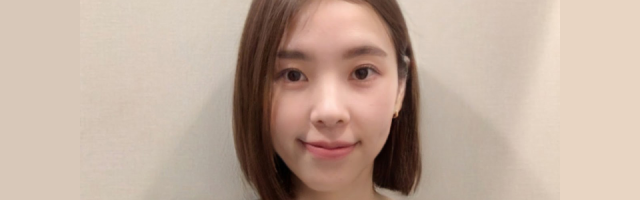
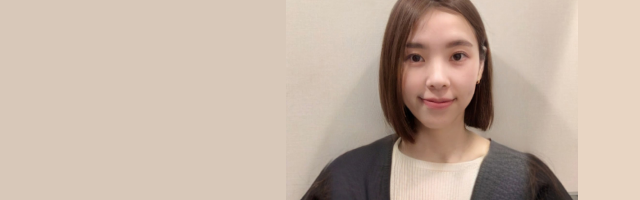
Revice design and beharvior in 'Interview' section
Revice design and beharvior in 'Interview' section

diff --git a/css/index.css b/css/index.css
@@ -789,7 +789,7 @@ body {
   margin: 0 auto;
 }
 #interview__container .presentation__headerText {
-  margin-bottom: 40px;
+  margin-bottom: 10px;
 }
 
 #interview__container .presentation__itemText {
@@ -797,42 +797,39 @@ body {
   display: block;
   float: left;
   margin-right: 8px;
+  margin-bottom: 1em;
 }
 
 #interview__container .presentation__items {
-  display: flex;
-  justify-content: space-between;
+  /* display: flex; */
+  /* justify-content: space-between; */
 }
 #interview__container .presentation__item {
-  /* width: 294px; */
-  /* width: calc(960px / 4 * 3); */
-  min-height: 640px;
   background-color: var(--color-white);
   border-radius: 16px;
   box-shadow: 0 0 4px rgba(0, 28, 84, 15%);
   margin: 0 10px;
+  min-height: 680px;
 }
 
 #interview__container .presentation__item dl {
-  padding: 20px 24px 24px;
+  padding: 20px 24px 8px;
 }
 
 #interview__container .presentation__itemDescription {
   clear: left;
-  display: flex;
-  column-gap: 5%;
-  padding-top: 16px;
 }
 #interview__container .interview__content {
-  width: 30%;
+  width: 100%;
 }
 #interview__container .interview__content h3 {
   font: var(--text-Text16_B);
-  margin-bottom: 0.25em;
+  margin-bottom: 0.1em;
 }
 #interview__container .interview__content p {
   font: var(--text-Text14_R);
-  line-height: 1.5;
+  line-height: 1.4;
+  margin-bottom: 1em;
 }
 
 #interview__container .presentation__itemImage {
@@ -1292,11 +1289,11 @@ For smartphone
   /* interview */
 
   #interview__wrapper {
-    margin-bottom: 2em;
+    margin-bottom: 0em;
   }
 
   #interview__container {
-    padding: 0 0 2rem;
+    padding: 0 0 3em;
   }
   #interview__container .presentation__headerText {
     margin-bottom: 1em;
@@ -1328,17 +1325,17 @@ For smartphone
     background-color: var(--color-white);
     border-radius: 16px;
     box-shadow: 0 0 4px rgba(0, 28, 84, 15%);
-    margin: 0 auto 3em;
+    margin: 0 auto;
     min-height: auto;
     overflow: hidden;
   }
 
   #interview__container .presentation__item dl {
-    padding: 0 1.5em 1.5em;
+    padding: 0 1.5em;
   }
 
   #interview__container .presentation__item:nth-child(odd) {
-    margin-top: 0;
+    /* margin-top: 0; */
   }
 
   #interview__container .presentation__itemImage {
@@ -1353,7 +1350,7 @@ For smartphone
 
   #interview__container .interview__content h3 {
     font: var(--text-Text16_B);
-    margin: 1em 0 0.2em;
+    margin: 0 0 0.2em;
   }
 
   #interview__container .link__type2 {

diff --git a/js/index.js b/js/index.js
@@ -1,14 +1,27 @@
 const elems = {
   headerContainer: null,
 };
-let isMobile = false;
+let props = {
+  isMobile: false,
+  swiper: null,
+};
 
 document.addEventListener("DOMContentLoaded", () => {
   elems.headerContainer = document.querySelector("#header__container");
   initializeSwipper();
 
-  const removeMQEvent = MediaQuery.matches(767, (isMQmatched) => {
-    isMobile = isMQmatched;
+  const removeMQEvent = MediaQuery.matches(767, (isWideScreen) => {
+    props.isMobile = !isWideScreen;
+
+    if (props.isMobile) {
+      if (props.swiper != null) {
+        props.swiper.autoplay.pause();
+      }
+    } else {
+      if (props.swiper != null) {
+        props.swiper.autoplay.start();
+      }
+    }
   });
 });
 
@@ -55,17 +68,8 @@ function initializeSwipper() {
     },
   };
 
-  // if (!isMobile) {
-  //   options.autoplay = {
-  //     delay: 3000,
-  //     disableOnInteraction: false,
-  //     pauseOnMouseEnter: true,
-  //   };
-  // } else {
-  //   delete options.autoplay;
-  // }
-
-  const swiper = new Swiper(".swiper", options);
+  props.swiper = new Swiper(".swiper", options);
+  props.swiper.autoplay.stop();
 
   for (let i = 0; i < slides.length; i++) {
     const target = slides[i];
@@ -85,11 +89,17 @@ function initializeSwipper() {
 
     content.setAttribute("id", id);
 
-    swiper.on("slideChange", () => {
+    props.swiper.on("slideChange", () => {
       if (id != null) {
-        // content.style.setProperty("--dynamic-height", "1px");
+        for (let i = 0; i < slides.length; i++) {
+          const content = slides[i].querySelector(
+            ".presentation__itemDescription"
+          );
 
-        MicroModal.close(`${id}`);
+          content.style.setProperty("--dynamic-height", "1px");
+
+          MicroModal.close(`${id}`);
+        }
       }
     });
   }
